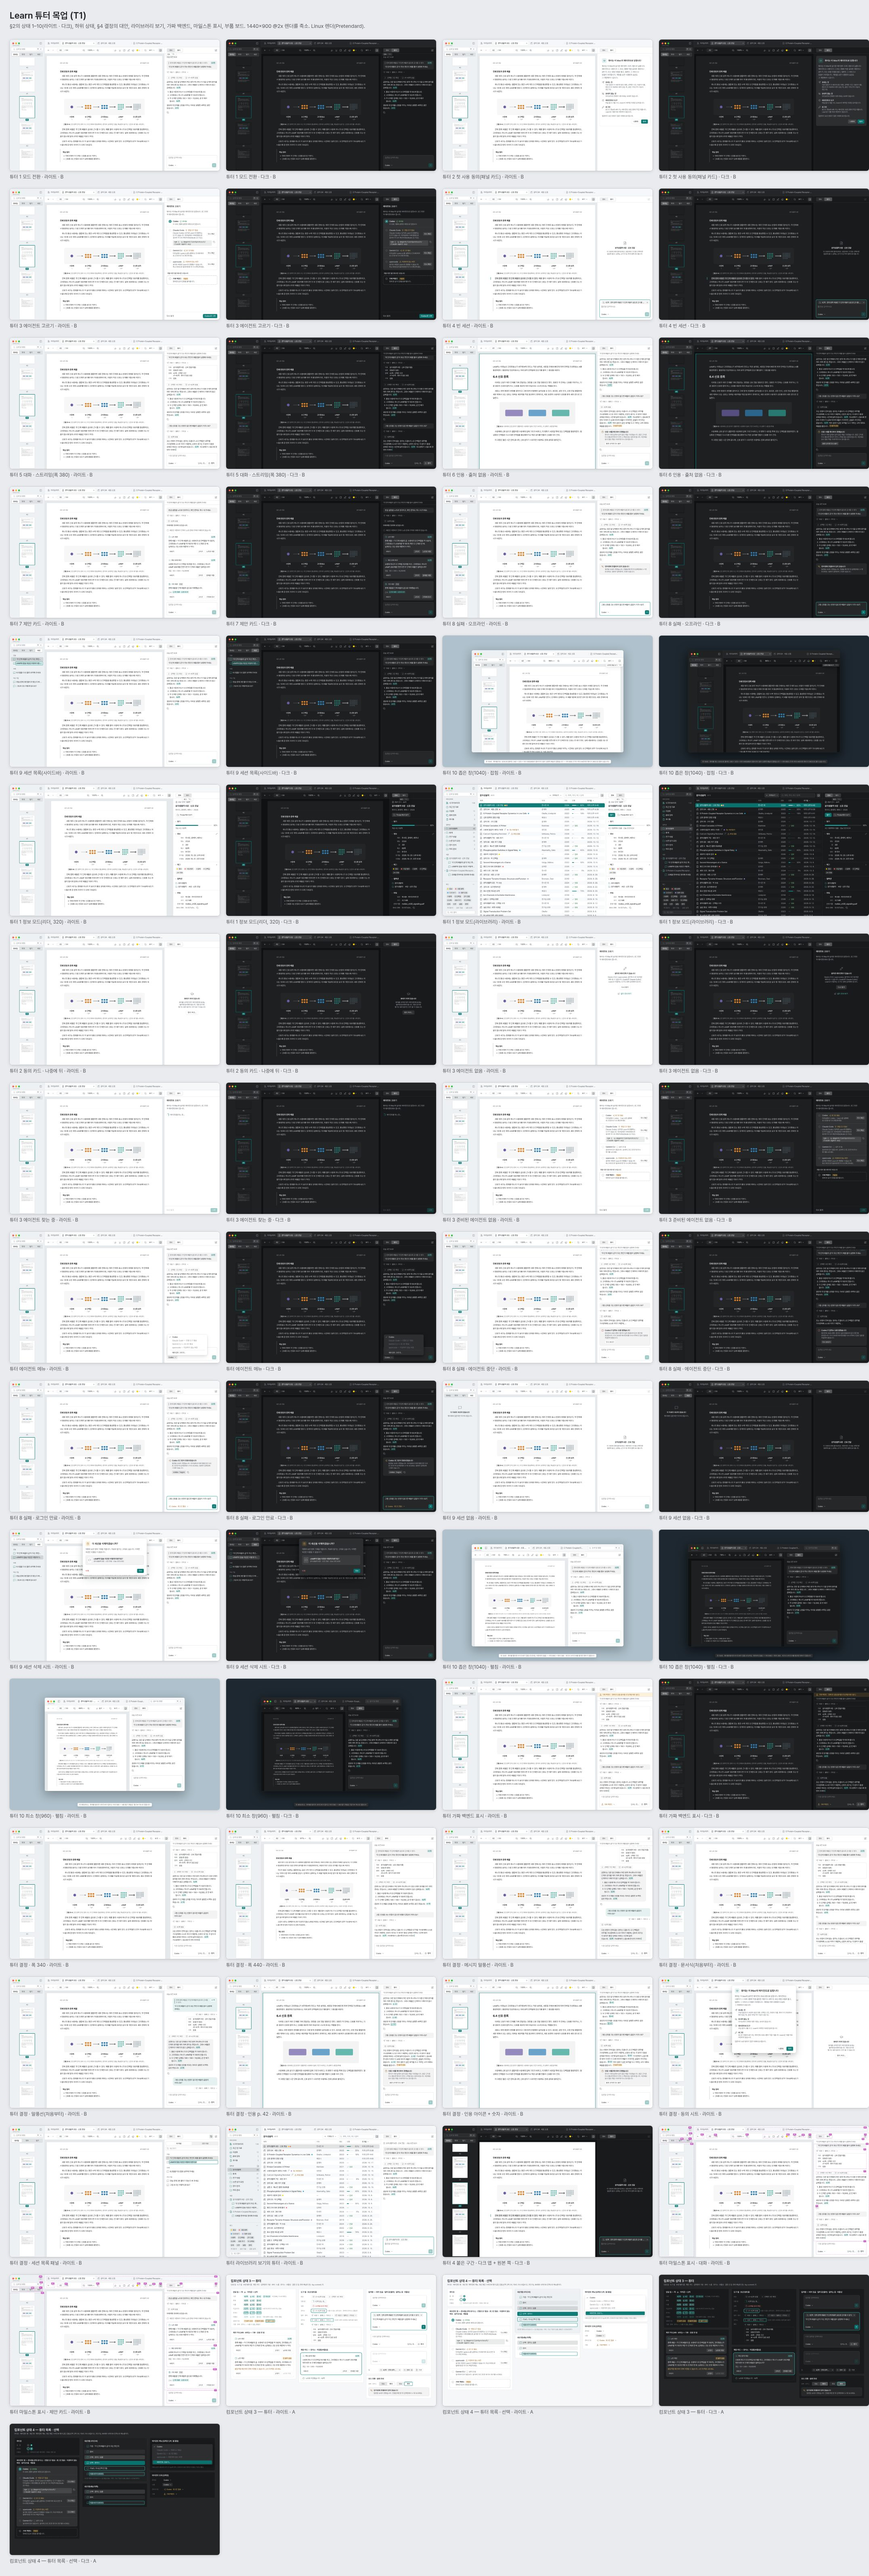
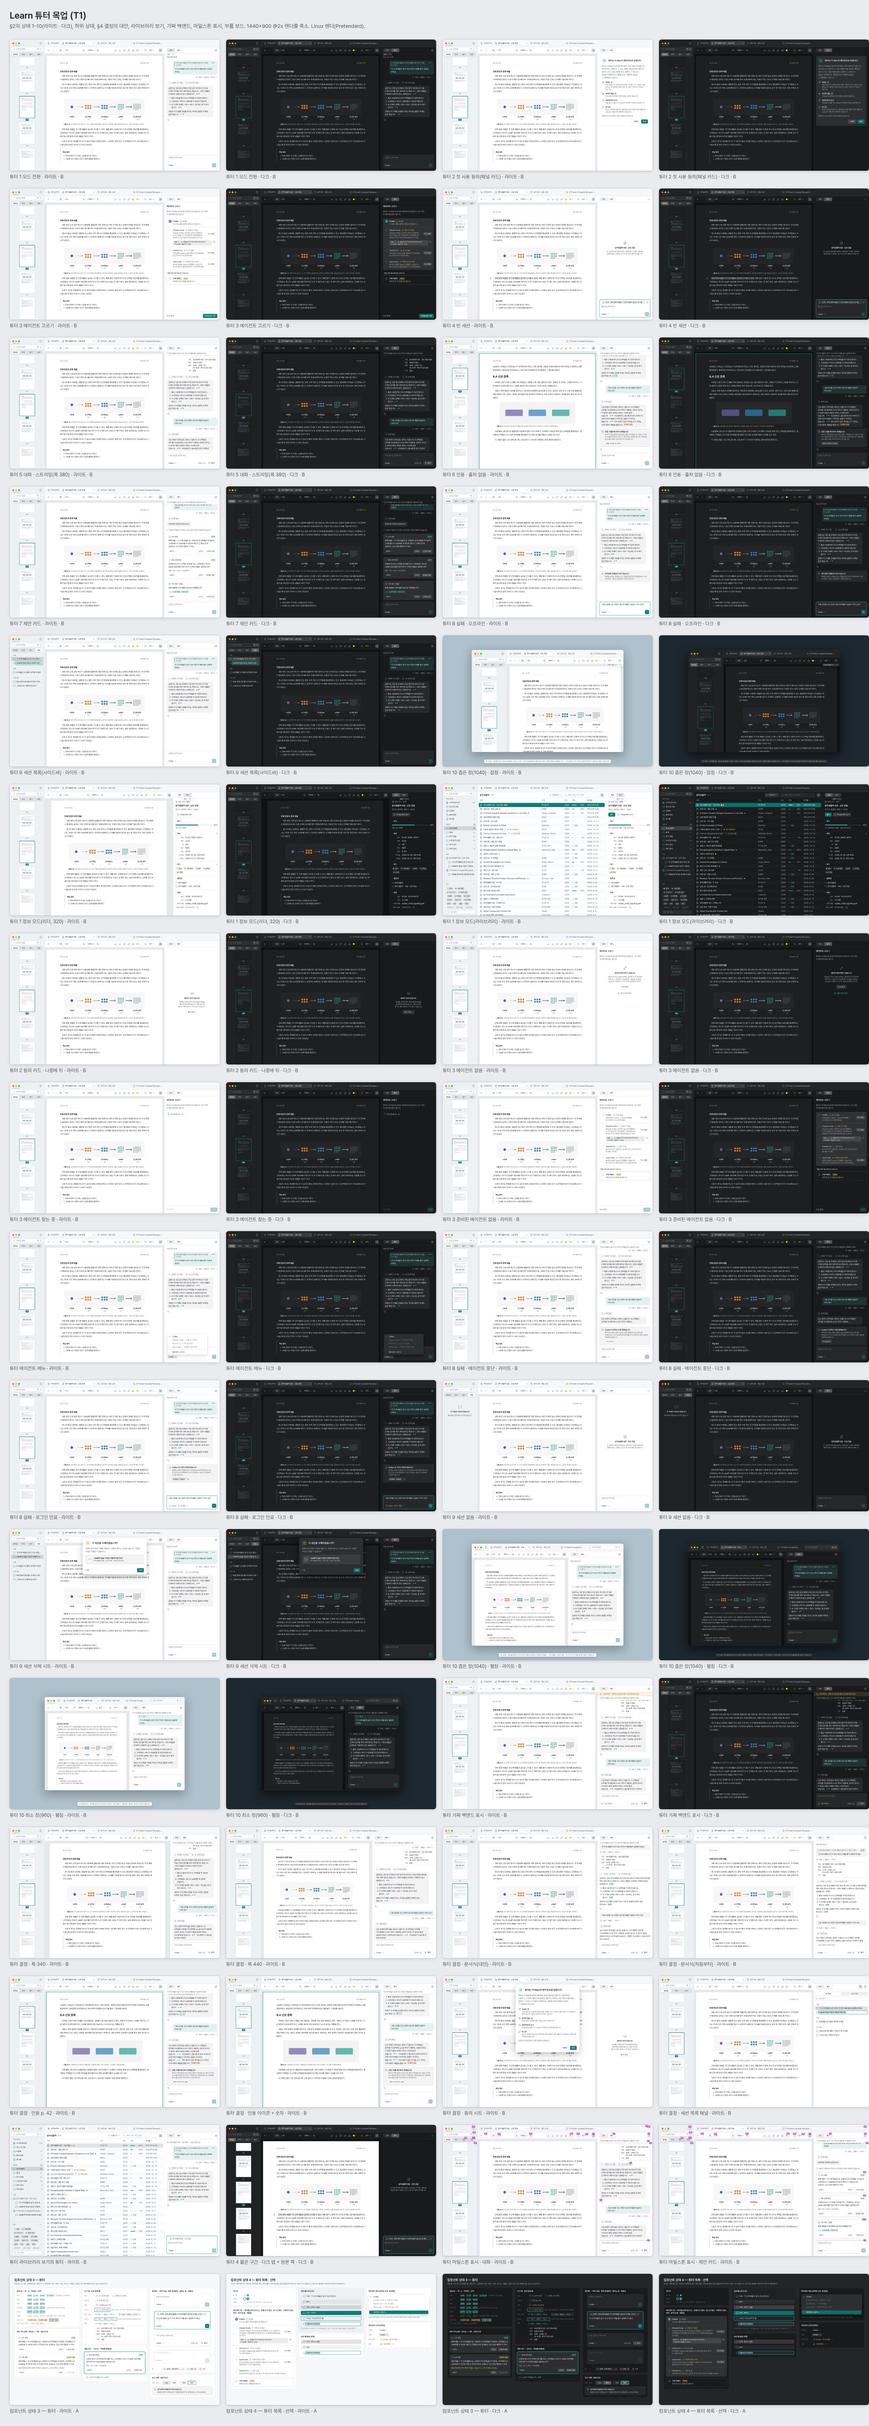
feat(mockup): bubbles are the tutor default; chips in the tutor bubble take --bg-content; 5-msg-doc replaces 5-msg-bubble
Claude-Session: https://claude.ai/code/session_01LH2FDh4QwsGUFR3V2KewHi

diff --git a/docs/design/mockups/assets/views.js b/docs/design/mockups/assets/views.js
@@ -1141,7 +1141,7 @@
   const tu = {
     state: Number(pick('state', ['1', '2', '3', '4', '5', '6', '7', '8', '9', '10'], '5')),
     width: Number(pick('width', ['340', '380', '440'], '380')),
-    msg: pick('msg', ['doc', 'bubble'], 'doc'),
+    msg: pick('msg', ['doc', 'bubble'], 'bubble'),
     cite: pick('cite', ['page', 'p', 'icon'], 'page'),
     consent: pick('consent', ['card', 'sheet'], 'card'),
     sessions: pick('sessions', ['sidebar', 'panel'], 'sidebar'),

diff --git a/docs/design/mockups/assets/mockup.css b/docs/design/mockups/assets/mockup.css
@@ -2989,7 +2989,8 @@ h2,
   outline: var(--focus-ring-width) solid var(--focus);
   outline-offset: calc(var(--focus-ring-width) * -1);
 }
-[data-msg='bubble'] .tu-msg.user .cite {
+[data-msg='bubble'] .tu-msg.user .cite,
+[data-msg='bubble'] .tu-msg.tutor .body .cite:not(.is-unverified) {
   background: var(--bg-content);
 }
 .cite.is-disabled {
